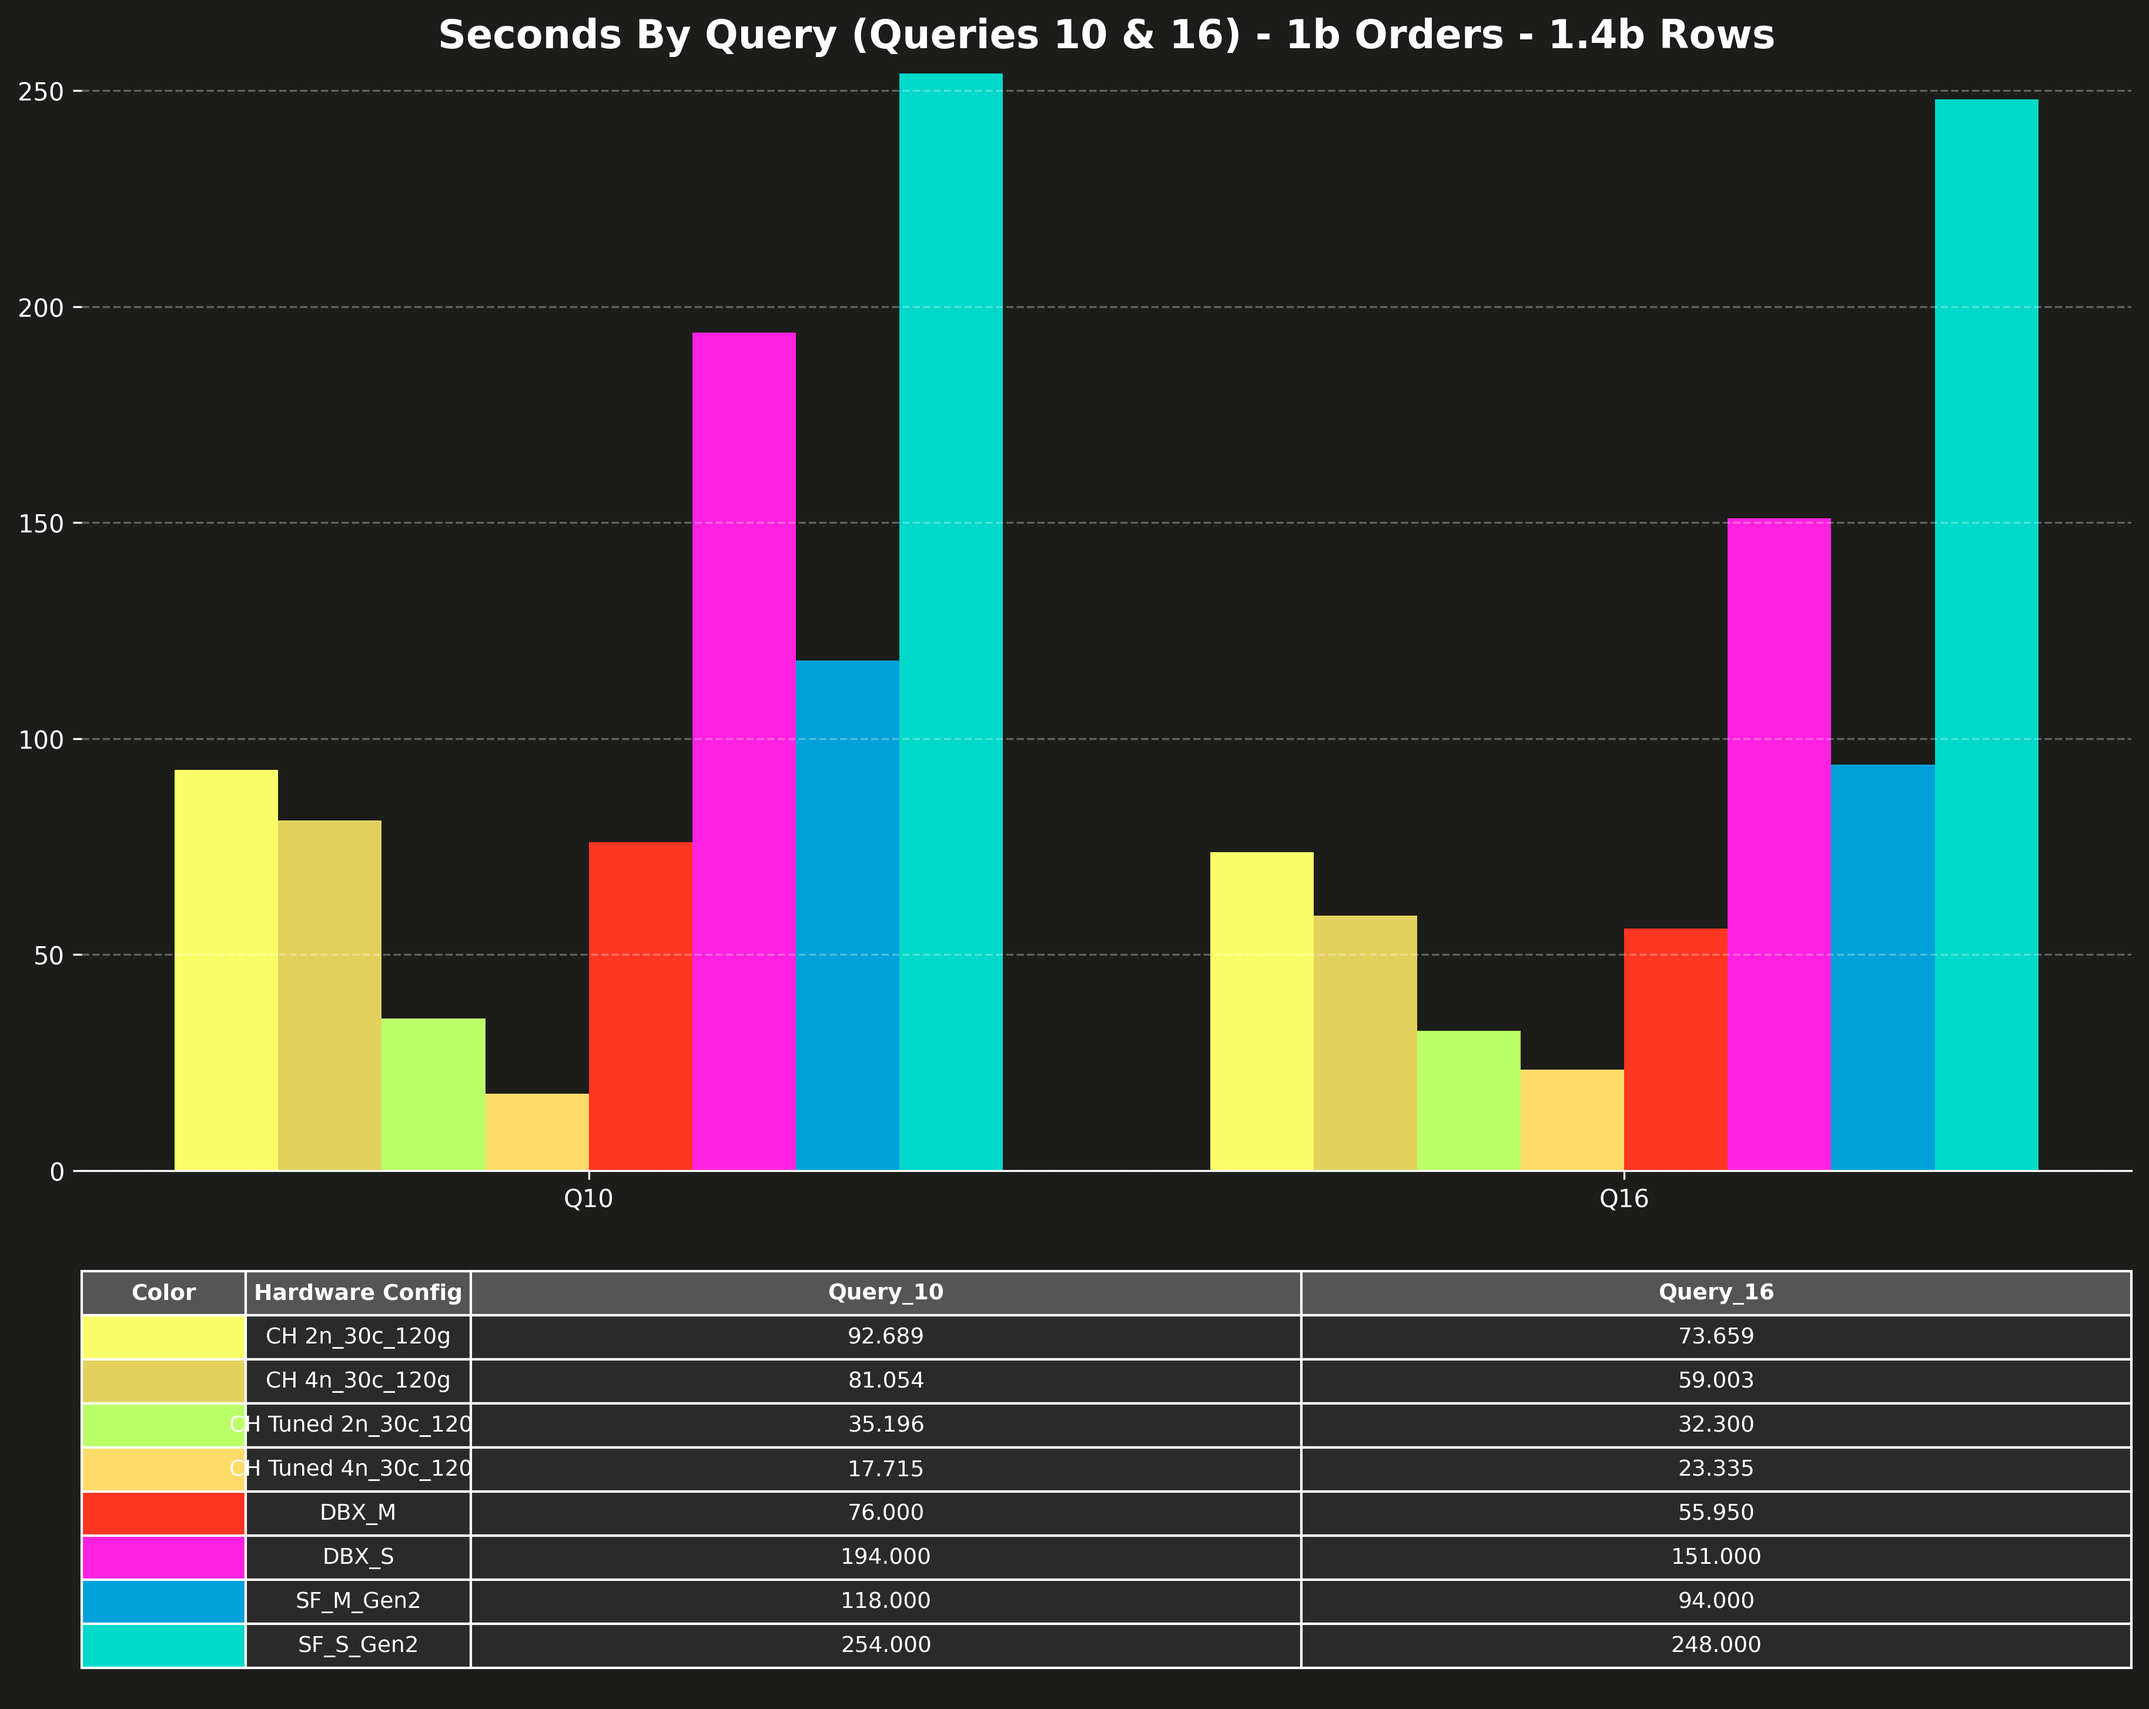
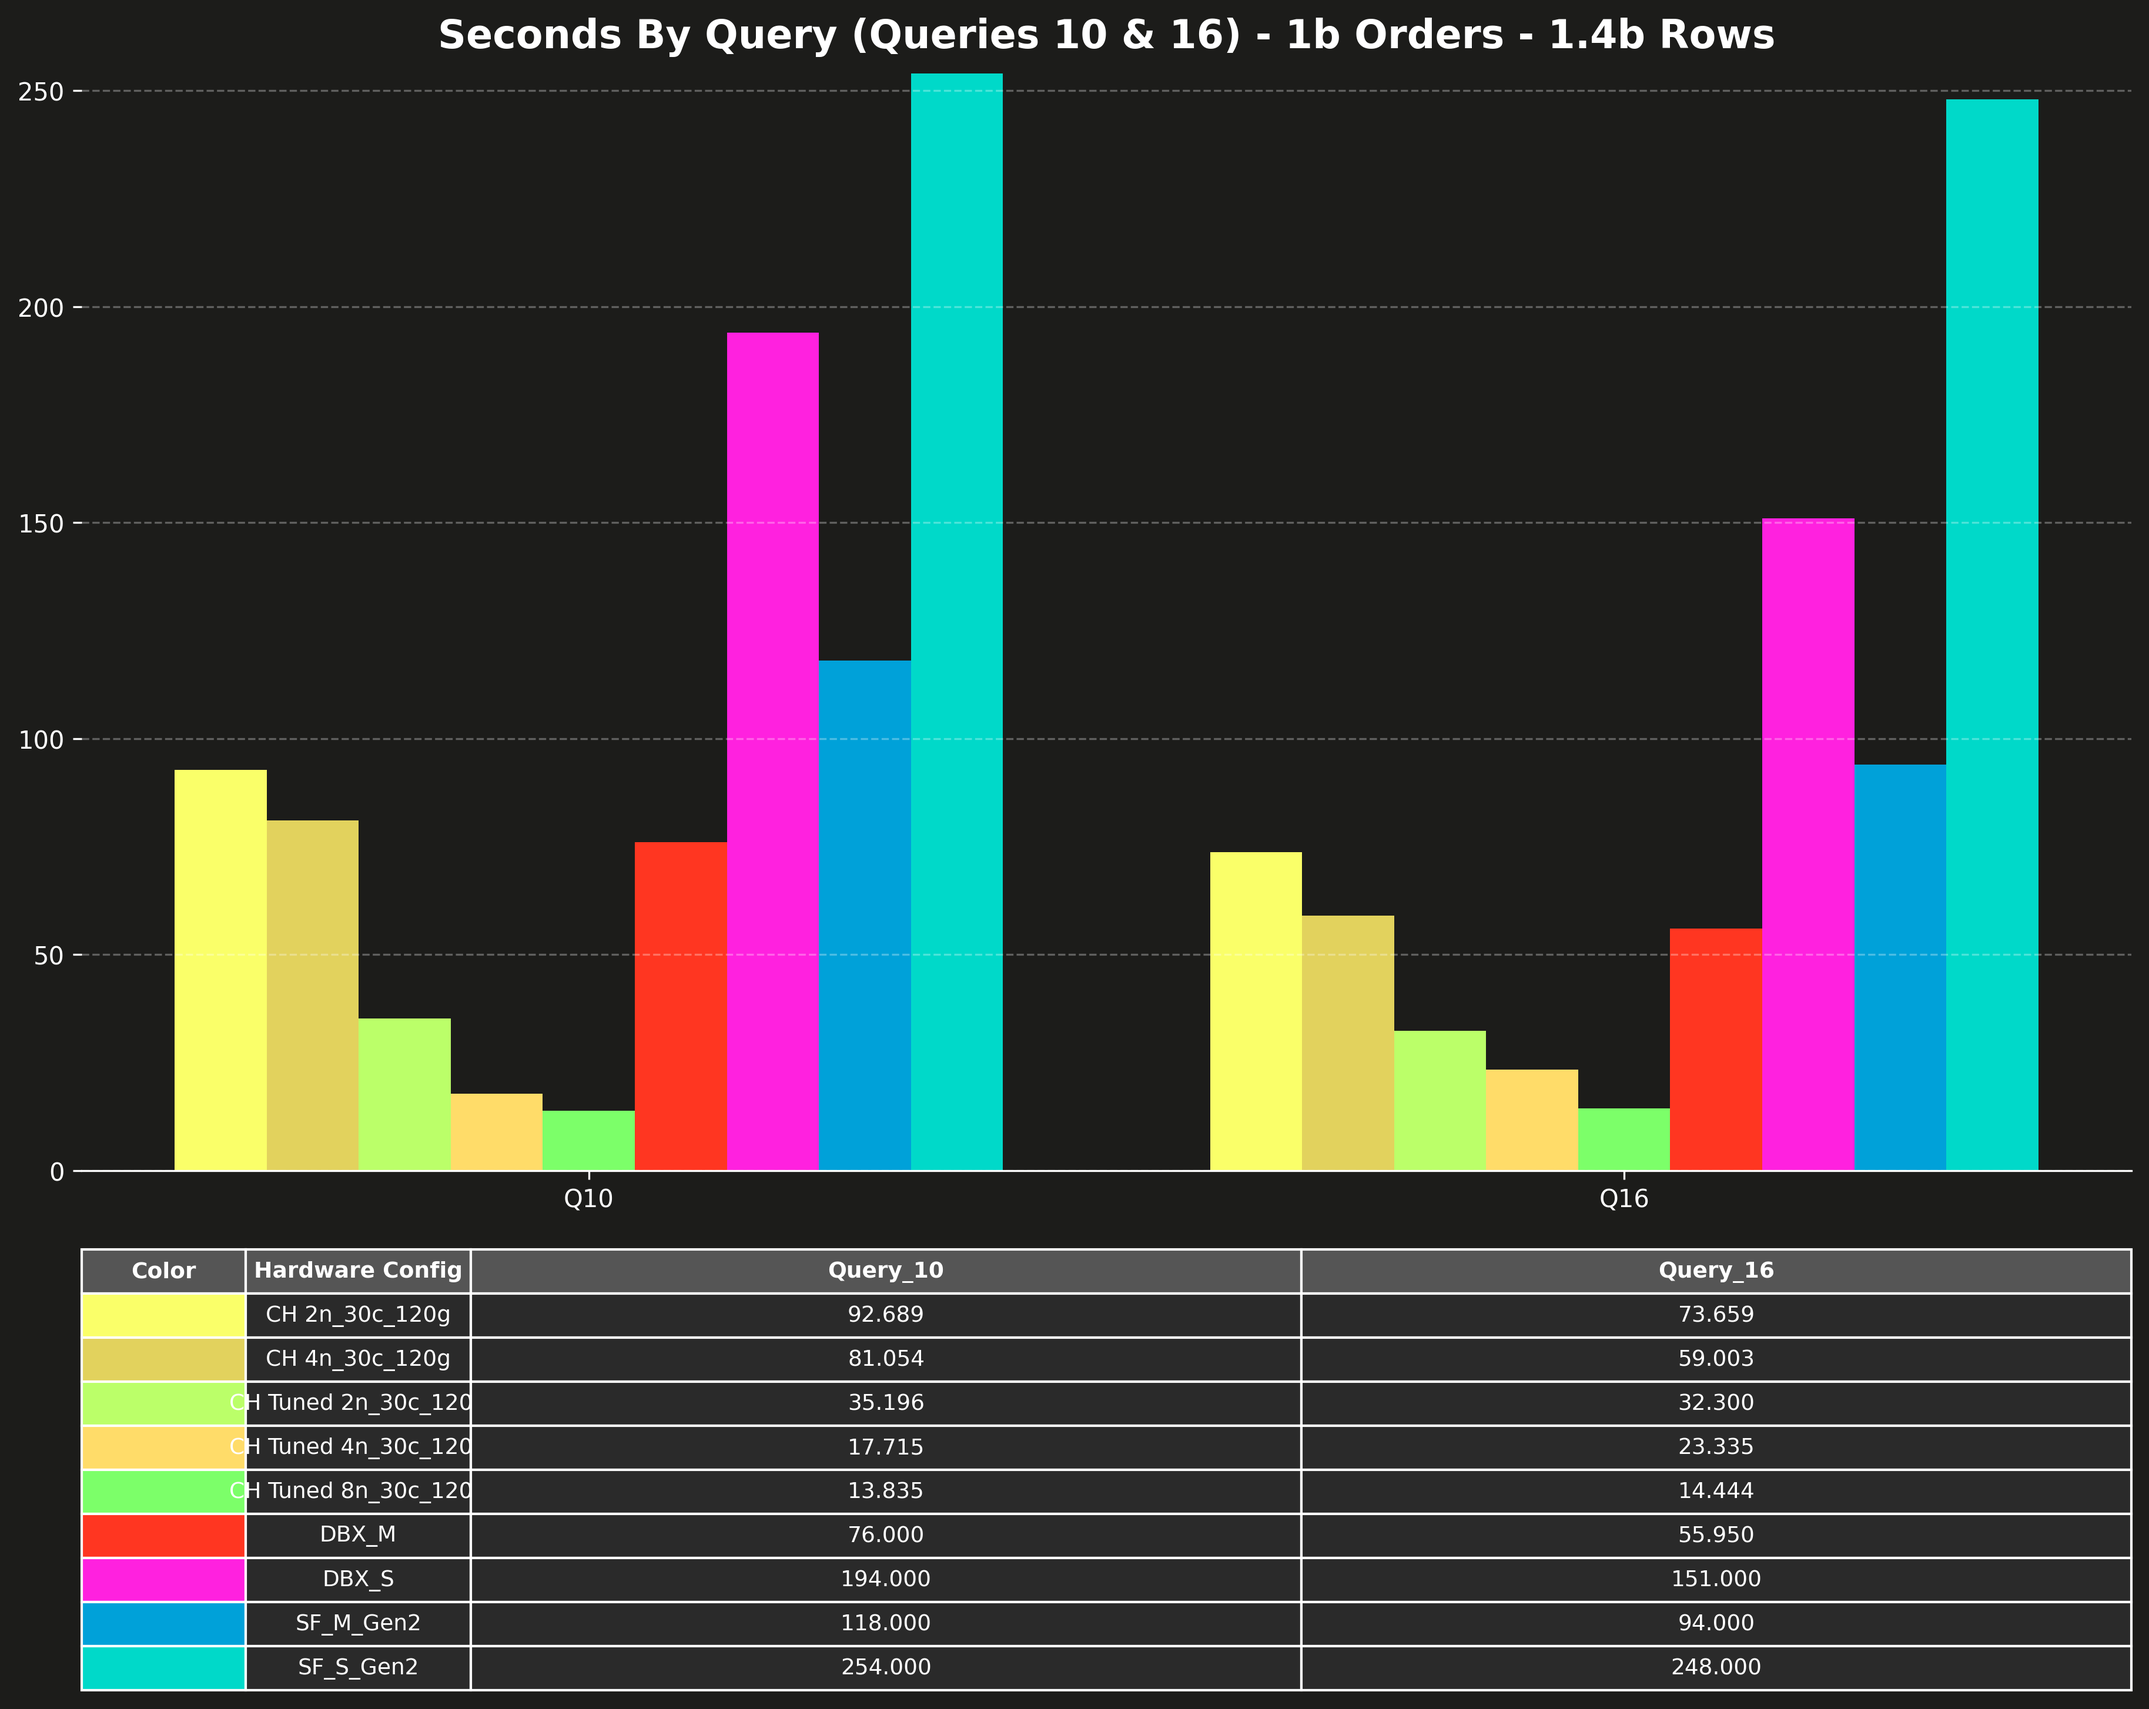
tuned exclusions for 1b

Changed region(s): [[0.0312, 0.0309, 0.9978, 0.9904]]

diff --git a/chart_generation/main.py b/chart_generation/main.py
@@ -51,19 +51,37 @@ CLICKHOUSE_EXCLUDE_PATTERNS = [
 # Dataset-size-specific filtering for ClickHouse hardware configurations
 # The original benchmark scaled the hardware size with the workload and did not bench small instances on larger datasets / large instaces on smaller datasets
 CLICKHOUSE_DATASET_FILTERS = {
-    "500m": [
-        "16n",  # Exclude 16-node configs for 500m
-        "8n",   # Exclude 8-node configs for 500m
-    ],
-    "1b": [
-        "16n",  # Exclude 16-node configs for 1b
-        "8n",   # Exclude 8-node configs for 1b
-    ],
-    "5b": [
-        "2n",   # Exclude 2-node configs for 5b
-        "4n",   # Exclude 4-node configs for 5b
-    ]
+    "500m": {
+        "non-tuned": [
+            "16n",  # Exclude 16-node configs for 500m non-tuned
+            "8n",   # Exclude 8-node configs for 500m non-tuned
+        ],
+        "tuned": [
+            "16n",  # Exclude 16-node configs for 500m tuned
+            "8n",   # Exclude 8-node configs for 500m tuned
+        ]
+    },
+    "1b": {
+        "non-tuned": [
+            "16n",  # Exclude 16-node configs for 1b non-tuned
+            "8n",   # Exclude 8-node configs for 1b non-tuned
+        ],
+        "tuned": [
+            "16n" # Exclude 16-node configs for 1b tuned
+        ]
+    },
+    "5b": {
+        "non-tuned": [
+            "2n",   # Exclude 2-node configs for 5b non-tuned
+            "4n",   # Exclude 4-node configs for 5b non-tuned
+        ],
+        "tuned": [
+            "2n",   # Exclude 2-node configs for 5b tuned
+            "4n",   # Exclude 4-node configs for 5b tuned
+        ]
+    }
 }
+
 
 class ChartType(Enum):
     """Enum to define different chart types and their behaviors"""
@@ -221,7 +239,7 @@ def load_clickhouse_data(data_type):
 
             # Apply dataset-size-specific filtering
             if dataset_size in CLICKHOUSE_DATASET_FILTERS:
-                if any(pattern in hardware_config_ch for pattern in CLICKHOUSE_DATASET_FILTERS[dataset_size]):
+                if any(pattern in hardware_config_ch for pattern in CLICKHOUSE_DATASET_FILTERS[dataset_size]["non-tuned"]):
                     print(f"Skipping ClickHouse file: {filename} due to dataset-size-specific exclusion in hardware config: {hardware_config_ch}")
                     continue
 
@@ -316,7 +334,7 @@ def load_clickhouse_tuned_data(data_type):
 
             # Apply dataset-size-specific filtering
             if dataset_size in CLICKHOUSE_DATASET_FILTERS:
-                if any(pattern in hardware_config_ch for pattern in CLICKHOUSE_DATASET_FILTERS[dataset_size]):
+                if any(pattern in hardware_config_ch for pattern in CLICKHOUSE_DATASET_FILTERS[dataset_size]["tuned"]):
                     print(f"Skipping ClickHouse Tuned file: {filename} due to dataset-size-specific exclusion in hardware config: {hardware_config_ch}")
                     continue
 
